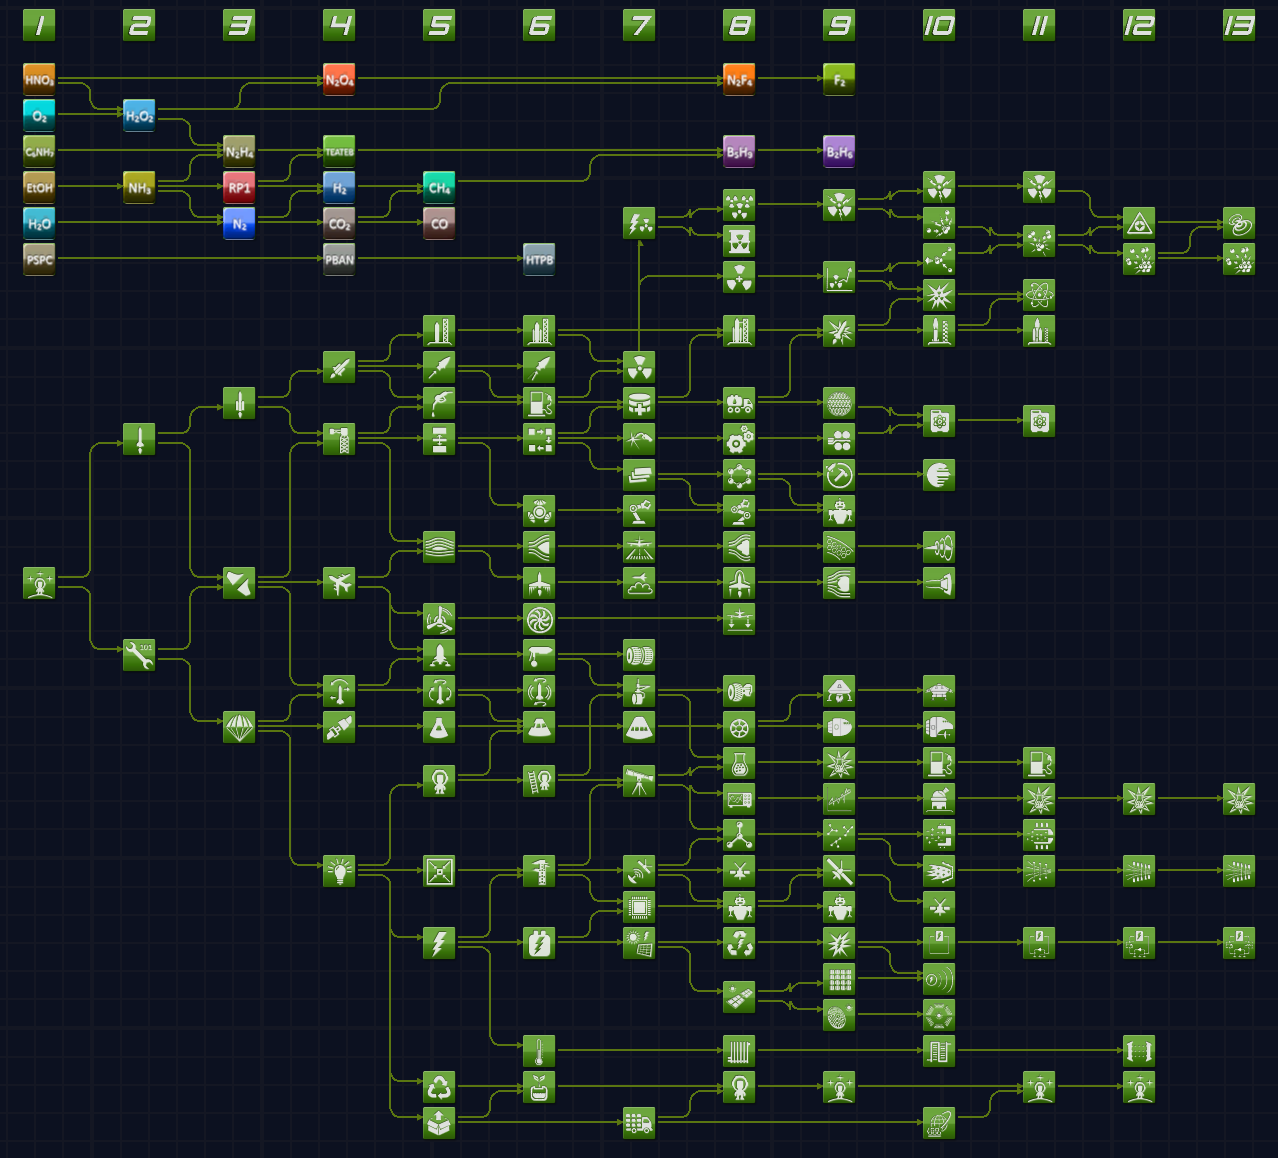
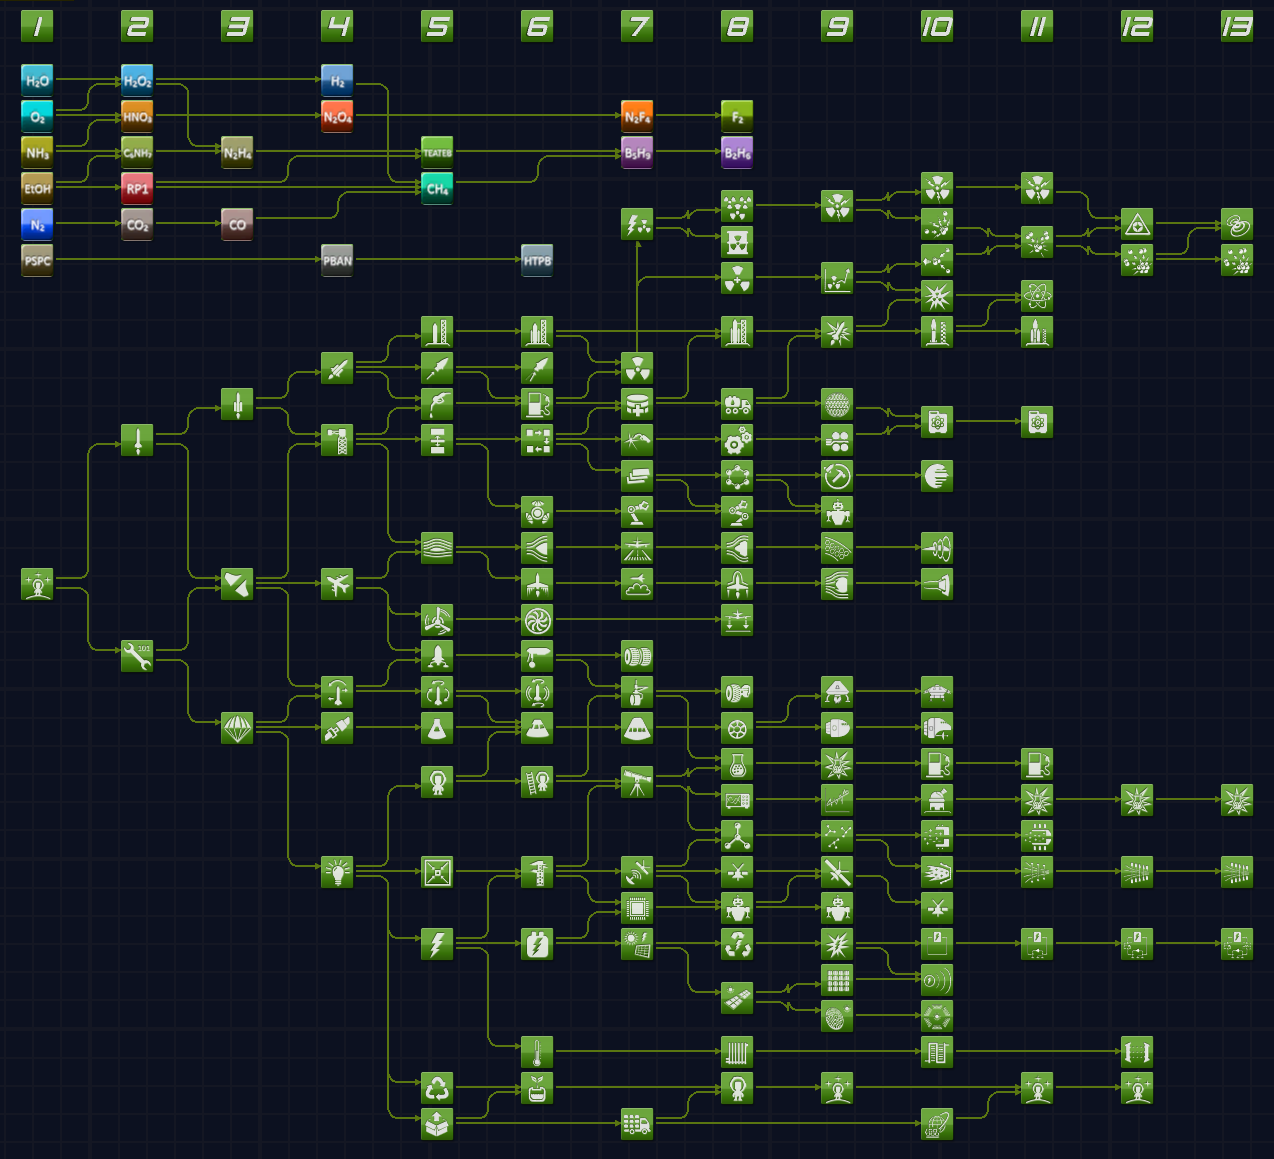
Completely reorganise tech tree nodes

diff --git a/changelog.md b/changelog.md
@@ -1,5 +1,12 @@
 # 1.1.0
 - Fixed Gradual Progression Tech Tree compatibility
 - Changed all tech tree node prerequisites from all-to-unlock to any-to-unlock
+- Completely reorganised tech tree into chemically-related branches, with the following tier changes:
+  - LqdAmmonia: tier 1 → 0
+  - Kerosene: tier 2 → 1
+  - Aniline and IWFNA (nitric acid): tier 0 → 1
+  - TEATEB: tier 3 → 4
+  - All exotics (N2F4, LqdFluorine, Pentaborane, Diborane): bumped down one tier
+  - All inert cryogenics (LqdNitrogen, LqdCO2, LqdCO): bumped down two tiers
 # 1.0.0
 - Initial release
